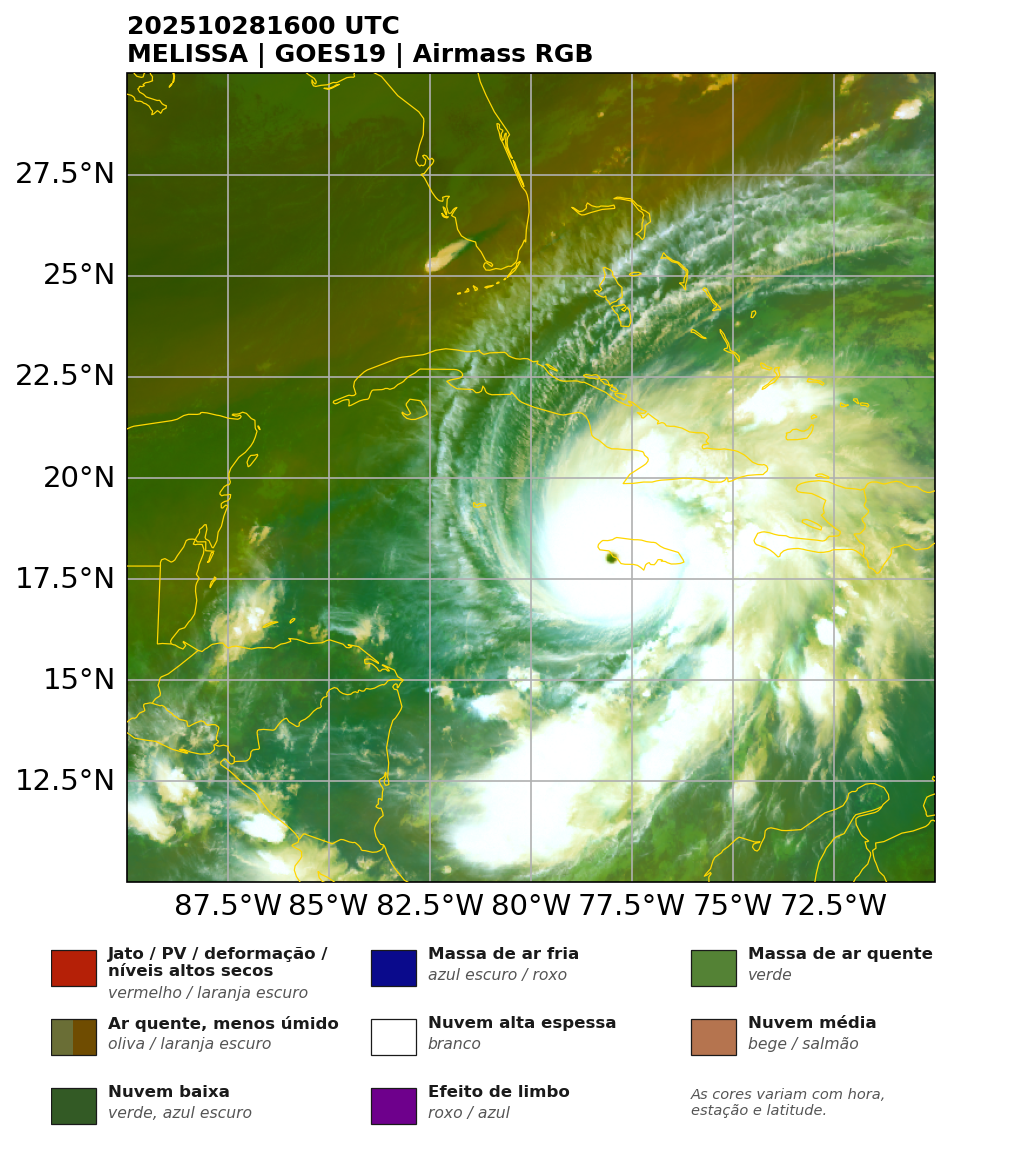
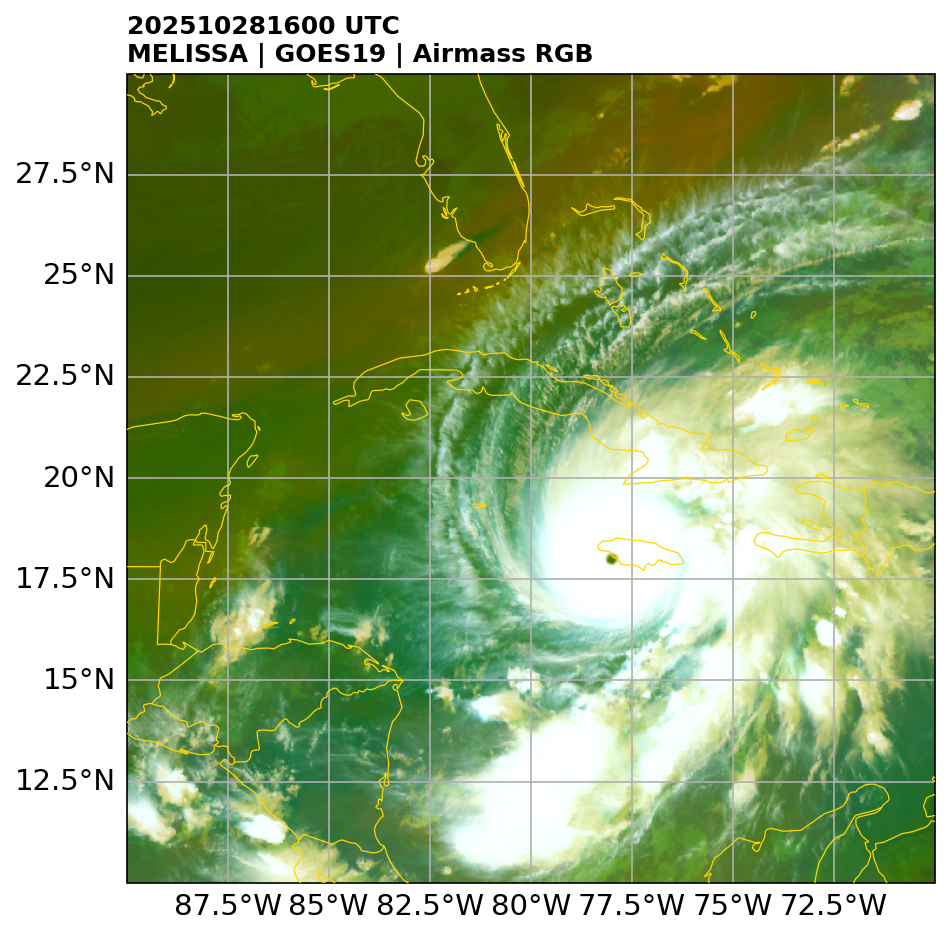
novos produtos atualização legenda

diff --git a/produto_plot.py b/produto_plot.py
@@ -14,7 +14,7 @@ import cartopy.feature as cfeature
 import cartopy.io.shapereader as shpreader
 import warnings
 from matplotlib.colors import LinearSegmentedColormap, ListedColormap
-from matplotlib.patches import Patch, Rectangle
+from matplotlib.patches import Patch
 
 # Configuração inicial
 matplotlib.use('Agg')
@@ -393,9 +393,7 @@ def plot_simple_channel(caso, canal, sat, extent=None, titulo_personalizado=None
                 titulo = f"{data_str} UTC\n{sat.upper()} | {canal.upper()} ({tipo_str_titulo})"
                 nome_arquivo = f"{sat.upper()}_{canal}{sufixo_noaa}_{data_str}.png"
             
-            plt.title(titulo, loc='left', fontweight='bold', fontsize=12)
-            plt.savefig(os.path.join(caminho_fig, nome_arquivo), dpi=300, bbox_inches='tight')
-            plt.close(fig)
+            salvar_figura(fig, ax, os.path.join(caminho_fig, nome_arquivo), titulo, dpi=300)
             arq.close()
             
         except Exception as e:
@@ -523,9 +521,7 @@ def plot_true_color(caso, sat, extent=None, titulo_personalizado=None):
                 titulo = f"{data_str} UTC\n{sat.upper()} | True Color RGB"
                 nome_arquivo = f"{sat.upper()}_true_color_{data_str}.png"
             
-            plt.title(titulo, loc='left', fontweight='bold', fontsize=12)
-            plt.savefig(os.path.join(caminho_fig, nome_arquivo), dpi=150, bbox_inches='tight')
-            plt.close(fig)
+            salvar_figura(fig, ax, os.path.join(caminho_fig, nome_arquivo), titulo, dpi=150)
             
             arq1.close()
             arq2.close()
@@ -535,6 +531,94 @@ def plot_true_color(caso, sat, extent=None, titulo_personalizado=None):
             print(f"   ERRO ao processar {data_str}: {e}")
     
     print(f"Plotagem True Color concluida!")
+
+# ============================================================================
+# SALVAMENTO DAS FIGURAS (recorte automático ou moldura fixa)
+# ============================================================================
+
+# Moldura fixa (opcional). None = padrão: figura recortada com bbox_inches='tight' e
+# título em negrito (cada produto sai de um tamanho). A legenda dos RGB vai sempre dentro
+# do mapa (legenda_rgb_no_mapa), nos dois modos.
+# Quem precisa de todas as imagens do mesmo tamanho define um dicionário antes de plotar
+# (ex.: MONAN_FORECAST/scripts/sat_fds.py, para casar com os mapas de chuva do MONAN):
+#   produto_plot.MOLDURA = {
+#       'figsize': (w, h),         polegadas
+#       'dpi': 200,
+#       'ax':   [x0, y0, w, h],    posição do mapa (fração da figura)
+#       'cbar': [x0, y0, w, h],    posição da barra de cores (fração da figura)
+#       'fonte': 10,               tamanho das letras (títulos, rótulos, barra)
+#       'satelite': 'GOES-19',     nome no título
+#   }
+# Com moldura: título em 3 linhas à esquerda e 3 à direita (como os mapas do MONAN),
+# horário de Brasília.
+MOLDURA = None
+
+DIAS_SEMANA = ['seg', 'ter', 'qua', 'qui', 'sex', 'sáb', 'dom']
+
+
+def salvar_figura(fig, ax, caminho, titulo, dpi=150, legenda=None, nota=None):
+    """Salva e fecha a figura. titulo: 'AAAAMMDDhhmm UTC\\n<SAT> | <produto>'."""
+    if MOLDURA is None:
+        ax.set_title(titulo, loc='left', fontweight='bold', fontsize=12)
+        if legenda:
+            legenda_rgb_no_mapa(ax, legenda, nota, fonte=10)
+        fig.savefig(caminho, dpi=dpi, bbox_inches='tight')
+    else:
+        aplicar_moldura(fig, ax, titulo, legenda=legenda, nota=nota)
+        fig.savefig(caminho, dpi=MOLDURA['dpi'])
+    plt.close(fig)
+
+
+def aplicar_moldura(fig, ax, titulo, legenda=None, nota=None):
+    """Põe mapa, barra de cores, títulos e legenda nas posições fixas de MOLDURA."""
+    from datetime import datetime, timedelta
+    m = MOLDURA
+    fonte = m.get('fonte', 10)
+    fig.set_size_inches(*m['figsize'])
+    barras = [a for a in fig.axes if a is not ax]   # barra de cores (se o produto tem)
+    ax.set_position(m['ax'])
+    for barra in barras:
+        barra.set_position(m['cbar'])
+        barra.tick_params(labelsize=fonte)
+        barra.yaxis.label.set_size(fonte)
+    # rótulos de lat/lon (no cartopy >= 0.23 a grade é um artista do eixo; antes, ax._gridliners)
+    from cartopy.mpl.gridliner import Gridliner
+    grades = [a for a in ax.artists if isinstance(a, Gridliner)] or getattr(ax, '_gridliners', [])
+    for gl in grades:
+        gl.xlabel_style = {'size': fonte}
+        gl.ylabel_style = {'size': fonte}
+
+    # Título: 'AAAAMMDDhhmm UTC\n<SAT> | <produto>' -> estilo dos mapas do MONAN
+    linhas = titulo.split('\n')
+    t = datetime.strptime(linhas[0].split()[0], '%Y%m%d%H%M')
+    produto = linhas[1].split(' | ')[-1] if len(linhas) > 1 else ''
+    local = t - timedelta(hours=3)
+    sat = m.get('satelite', 'GOES')
+    ax.set_title(f"{produto}\n{DIAS_SEMANA[local.weekday()]} {local:%d/%m %H:%M} (Brasília)\n"
+                 f"{sat} ABI", fontsize=fonte, loc='left')
+    ax.set_title(f"Imagem: {t:%d/%m/%Y %H:%M}Z\nSatélite: {sat}\nFonte: NOAA",
+                 fontsize=fonte, loc='right')
+
+    if legenda:
+        legenda_rgb_no_mapa(ax, legenda, nota, fonte=fonte)
+
+
+def legenda_rgb_no_mapa(ax, legenda, nota=None, fonte=10):
+    """Legenda das cores de um RGB DENTRO do mapa (canto inferior direito, fundo semitransparente).
+
+    legenda: lista de (cores da amostra, texto principal, descrição da cor); a amostra usa a
+    primeira cor. A nota (ex.: 'As cores variam com hora...') vai como título da legenda.
+    """
+    nota_txt = (nota or '').replace('\n', ' ')
+    itens = [Patch(facecolor=cores[0], edgecolor='#1a1a1a', linewidth=0.5,
+                   label=f"{texto.replace(chr(10), ' ')} ({descricao})")
+             for cores, texto, descricao in legenda]
+    leg = ax.legend(handles=itens, loc='lower right', fontsize=fonte - 2, framealpha=0.85,
+                    title=nota_txt, title_fontsize=fonte - 3, borderpad=0.5,
+                    handlelength=1.2, handleheight=1.0, labelspacing=0.35)
+    leg.get_title().set_style('italic')
+    leg.set_zorder(1000)
+
 
 # ============================================================================
 # AIRMASS RGB (ch08, ch10, ch12, ch13)
@@ -553,55 +637,6 @@ AIRMASS_LEGENDA = [
     (['#335A25'], 'Nuvem baixa', 'verde, azul escuro'),
     (['#6E008C'], 'Efeito de limbo', 'roxo / azul'),
 ]
-
-def adicionar_legenda_rgb(fig, ax, legenda, nota='As cores variam com hora,\nestação e latitude.'):
-    """
-    Adiciona abaixo do eixo x a legenda com o significado das cores de um RGB.
-    legenda: lista de (cores da amostra, texto principal, descrição da cor).
-    A legenda usa polegadas como coordenadas, então o tamanho do texto independe
-    do extent do mapa.
-    """
-    n_colunas = 3
-    largura, altura_linha = 6.4, 0.46
-    n_linhas = int(np.ceil((len(legenda) + 1) / n_colunas))  # +1: nota final
-    altura = n_linhas * altura_linha
-    afastamento_eixo = 0.42  # espaço para os rótulos de longitude
-    fig_w, fig_h = fig.get_size_inches()
-
-    ax.apply_aspect()
-    pos = ax.get_position()
-    centro_x = (pos.x0 + pos.x1) / 2
-    painel = fig.add_axes([centro_x - largura / fig_w / 2,
-                           pos.y0 - (afastamento_eixo + altura) / fig_h,
-                           largura / fig_w, altura / fig_h])
-    painel.axis('off')
-    painel.set_xlim(0, largura)
-    painel.set_ylim(altura, 0)
-    tinta, tinta_suave = '#1a1a1a', '#555555'
-
-    largura_coluna = largura / n_colunas
-    amostra_w, amostra_h = 0.3, 0.24
-    for i, (cores, texto, descricao) in enumerate(legenda):
-        x = (i % n_colunas) * largura_coluna
-        y = (i // n_colunas) * altura_linha + 0.03
-        passo = amostra_w / len(cores)
-        for j, cor in enumerate(cores):
-            painel.add_patch(Rectangle((x + j * passo, y), passo, amostra_h,
-                                       facecolor=cor, edgecolor='none'))
-        painel.add_patch(Rectangle((x, y), amostra_w, amostra_h, facecolor='none',
-                                   edgecolor=tinta, linewidth=0.6))
-        x_texto = x + amostra_w + 0.08
-        painel.text(x_texto, y - 0.02, texto, fontsize=8, fontweight='bold',
-                    color=tinta, va='top', linespacing=1.1)
-        painel.text(x_texto, y + 0.12 * (texto.count('\n') + 1) - 0.005, descricao,
-                    fontsize=7.5, style='italic', color=tinta_suave, va='top')
-
-    i_nota = len(legenda)
-    painel.text((i_nota % n_colunas) * largura_coluna,
-                (i_nota // n_colunas) * altura_linha + 0.03,
-                nota,
-                fontsize=7, style='italic', color=tinta_suave, va='top', linespacing=1.15)
-
 
 def salvar_mapa_rgb(RGB, lats, lons, extent, titulo, caminho_arquivo, legenda,
                     nota='As cores variam com hora,\nestação e latitude.'):
@@ -633,16 +668,12 @@ def salvar_mapa_rgb(RGB, lats, lons, extent, titulo, caminho_arquivo, legenda,
     gl.xlabel_style = {'fontsize': 14}
     gl.ylabel_style = {'fontsize': 14}
 
-    plt.title(titulo, loc='left', fontweight='bold', fontsize=12)
-    # Depois do título: fig.add_axes muda o eixo corrente usado por plt.title
-    adicionar_legenda_rgb(fig, ax, legenda, nota=nota)
-    plt.savefig(caminho_arquivo, dpi=150, bbox_inches='tight')
-    plt.close(fig)
+    salvar_figura(fig, ax, caminho_arquivo, titulo, dpi=150, legenda=legenda, nota=nota)
 
 NOTA_DIURNO = 'Somente diurno. As cores variam\ncom hora, estação e latitude.'
 
 
-def plot_airmass(caso, sat, extent=None, titulo_personalizado=None):
+def plot_airmass(caso, sat, extent=None, titulo_personalizado=None, legenda=False):
     """
     Plota o produto Airmass RGB, usado para monitorar ciclogênese, jatos e
     anomalias de vorticidade potencial (PV).
@@ -713,7 +744,8 @@ def plot_airmass(caso, sat, extent=None, titulo_personalizado=None):
                 nome_arquivo = f"{sat.upper()}_airmass_{ts}.png"
 
             salvar_mapa_rgb(RGB, lats, lons, extent, titulo,
-                            os.path.join(caminho_fig, nome_arquivo), AIRMASS_LEGENDA)
+                            os.path.join(caminho_fig, nome_arquivo),
+                            AIRMASS_LEGENDA if legenda else None)
 
             for c in canais:
                 ds[c].close()
@@ -737,7 +769,7 @@ DAYSNOWFOG_LEGENDA = [
     (['#A83C32'], 'Neve', 'vermelho / laranja'),
 ]
 
-def plot_daysnowfog(caso, sat, extent=None, titulo_personalizado=None):
+def plot_daysnowfog(caso, sat, extent=None, titulo_personalizado=None, legenda=False):
     """
     Plota o produto Day Snow-Fog RGB, usado para distinguir neve/solo de nuvens
     baixas e nevoeiro, e nuvens de água de nuvens de gelo. Somente diurno.
@@ -818,8 +850,8 @@ def plot_daysnowfog(caso, sat, extent=None, titulo_personalizado=None):
                 nome_arquivo = f"{sat.upper()}_daysnowfog_{ts}.png"
 
             salvar_mapa_rgb(RGB, lats, lons, extent, titulo,
-                            os.path.join(caminho_fig, nome_arquivo), DAYSNOWFOG_LEGENDA,
-                            nota=NOTA_DIURNO)
+                            os.path.join(caminho_fig, nome_arquivo),
+                            DAYSNOWFOG_LEGENDA if legenda else None, nota=NOTA_DIURNO)
 
             for c in canais:
                 ds[c].close()
@@ -846,7 +878,7 @@ DAYLANDCLOUDFIRE_LEGENDA = [
     (['#C01B1C'], 'Foco de calor / fogo', 'vermelho'),
 ]
 
-def plot_daylandcloudfire(caso, sat, extent=None, titulo_personalizado=None):
+def plot_daylandcloudfire(caso, sat, extent=None, titulo_personalizado=None, legenda=False):
     """
     Plota o produto Day Land Cloud/Fire RGB, usado para focos de calor, fumaça,
     cicatrizes de queimada e cobertura de neve/gelo. Somente diurno.
@@ -924,7 +956,7 @@ def plot_daylandcloudfire(caso, sat, extent=None, titulo_personalizado=None):
                 nome_arquivo = f"{sat.upper()}_daylandcloudfire_{ts}.png"
 
             salvar_mapa_rgb(RGB, lats, lons, extent, titulo,
-                            os.path.join(caminho_fig, nome_arquivo), DAYLANDCLOUDFIRE_LEGENDA,
+                            os.path.join(caminho_fig, nome_arquivo), DAYLANDCLOUDFIRE_LEGENDA if legenda else None,
                             nota=NOTA_DIURNO)
 
             for c in canais:
@@ -952,7 +984,7 @@ SIMPLEWV_LEGENDA = [
     (['#FFFFFF'], 'Nuvens altas e espessas', 'branco'),
 ]
 
-def plot_simple_wv(caso, sat, extent=None, titulo_personalizado=None):
+def plot_simple_wv(caso, sat, extent=None, titulo_personalizado=None, legenda=False):
     """
     Plota o produto Simple Water Vapor RGB, usado para ver a distribuição
     vertical do vapor d'água: retorno de umidade em níveis baixos sem nuvens,
@@ -1020,7 +1052,7 @@ def plot_simple_wv(caso, sat, extent=None, titulo_personalizado=None):
                 nome_arquivo = f"{sat.upper()}_simplewv_{ts}.png"
 
             salvar_mapa_rgb(RGB, lats, lons, extent, titulo,
-                            os.path.join(caminho_fig, nome_arquivo), SIMPLEWV_LEGENDA)
+                            os.path.join(caminho_fig, nome_arquivo), SIMPLEWV_LEGENDA if legenda else None)
 
             for c in canais:
                 ds[c].close()
@@ -1211,9 +1243,7 @@ def plot_diferenca(caso, sat, tipo, extent=None, titulo_personalizado=None, cmap
                 titulo = f"{ts} UTC\n{sat.upper()} | {info['titulo']}"
                 nome_arquivo = f"{sat.upper()}_{tipo}_{ts}.png"
 
-            plt.title(titulo, loc='left', fontweight='bold', fontsize=12)
-            plt.savefig(os.path.join(caminho_fig, nome_arquivo), dpi=150, bbox_inches='tight')
-            plt.close(fig)
+            salvar_figura(fig, ax, os.path.join(caminho_fig, nome_arquivo), titulo, dpi=150)
 
             arq_a.close()
             arq_b.close()
@@ -1343,9 +1373,7 @@ def plot_wvd_overshooting(caso, sat, extent=None, titulo_personalizado=None, lim
                 titulo = f"{ts} UTC\n{sat.upper()} | Water Vapor - IR Difference (OT > {limiar}K)"
                 nome_arquivo = f"{sat.upper()}_wvd_{ts}.png"
 
-            plt.title(titulo, loc='left', fontweight='bold', fontsize=12)
-            plt.savefig(os.path.join(caminho_fig, nome_arquivo), dpi=150, bbox_inches='tight')
-            plt.close(fig)
+            salvar_figura(fig, ax, os.path.join(caminho_fig, nome_arquivo), titulo, dpi=150)
 
             arq08.close()
             arq13.close()
@@ -1359,7 +1387,7 @@ def plot_wvd_overshooting(caso, sat, extent=None, titulo_personalizado=None, lim
 # FUNÇÃO PRINCIPAL EXPORTADA
 # ============================================================================
 
-def plot_prod(caso, produto, extent=None, titulo=None, cmap=None, usar_noaa_ch13=False):
+def plot_prod(caso, produto, extent=None, titulo=None, cmap=None, usar_noaa_ch13=False, legenda=False):
     """
     Função principal para plotagem de produtos GOES
     
@@ -1370,6 +1398,8 @@ def plot_prod(caso, produto, extent=None, titulo=None, cmap=None, usar_noaa_ch13
         titulo: str - título personalizado
         cmap: str - colormap personalizado (apenas para Single_Band)
         usar_noaa_ch13: bool - Força uso da paleta NOAA para ch13
+        legenda: bool - True põe a legenda das cores dentro do mapa (RGBs: AirMass, DaySnowFog,
+                         DayLandCloudFire, SimpleWV); padrão sem
     """
     
     print("\n" + "="*50)
@@ -1405,16 +1435,16 @@ def plot_prod(caso, produto, extent=None, titulo=None, cmap=None, usar_noaa_ch13
         plot_true_color(caso, sat, extent=extent, titulo_personalizado=titulo)
 
     elif produto == 'AirMass':
-        plot_airmass(caso, sat, extent=extent, titulo_personalizado=titulo)
+        plot_airmass(caso, sat, extent=extent, titulo_personalizado=titulo, legenda=legenda)
 
     elif produto == 'DaySnowFog':
-        plot_daysnowfog(caso, sat, extent=extent, titulo_personalizado=titulo)
+        plot_daysnowfog(caso, sat, extent=extent, titulo_personalizado=titulo, legenda=legenda)
 
     elif produto == 'DayLandCloudFire':
-        plot_daylandcloudfire(caso, sat, extent=extent, titulo_personalizado=titulo)
+        plot_daylandcloudfire(caso, sat, extent=extent, titulo_personalizado=titulo, legenda=legenda)
 
     elif produto == 'SimpleWV':
-        plot_simple_wv(caso, sat, extent=extent, titulo_personalizado=titulo)
+        plot_simple_wv(caso, sat, extent=extent, titulo_personalizado=titulo, legenda=legenda)
 
     elif produto == 'SWD':
         plot_diferenca(caso, sat, 'swd', extent=extent, titulo_personalizado=titulo, cmap=cmap)

diff --git a/README.md b/README.md
@@ -69,6 +69,38 @@ Plotagem das imagens
 python 2.plot_sat.py
 ```
 
+### 🎨 Legenda das cores nos RGBs
+
+Os RGBs **AirMass**, **Day Snow-Fog**, **Day Land Cloud/Fire** e **Simple Water Vapor** podem
+trazer a legenda com o significado das cores (chaves dos QuickGuides da NASA SPoRT/CIRA).
+A legenda fica **dentro do mapa**, no canto inferior direito, com fundo semitransparente.
+
+**Padrão: sem legenda** (`legenda=False`). Para ligar, passe `legenda=True`:
+
+```python
+from produto_plot import plot_prod
+
+caso = "goes19_20260510_20260510"   # pasta em fig_dados/
+
+plot_prod(caso, "AirMass")                  # sem legenda (padrão)
+plot_prod(caso, "AirMass", legenda=True)    # com a legenda dentro do mapa
+plot_prod(caso, "DaySnowFog", legenda=True, extent=[-60, -35, -38, -13])
+```
+
+No `2.plot_sat.py` (modo interativo), a opção não é perguntada: para sair com legenda, edite a
+última linha da função `main()`:
+
+```python
+plot_prod(caso, produto, extent=extent, titulo=titulo, cmap=cmap, legenda=True)
+```
+
+As funções de cada produto também aceitam a opção diretamente:
+`plot_airmass`, `plot_daysnowfog`, `plot_daylandcloudfire` e `plot_simple_wv`
+(ex.: `plot_airmass(caso, "goes19", legenda=True)`).
+
+Os outros produtos não usam essa opção: canais, SWD, CPD, SOD e SWVD têm barra de cores;
+True Color não tem legenda; e o WVD (overshooting) sempre mostra o item "WVD > limiar".
+
 📁 Estrutura do repositório (Ainda será melhorado)
 ```bash
 ├── 1.get_sat.py
